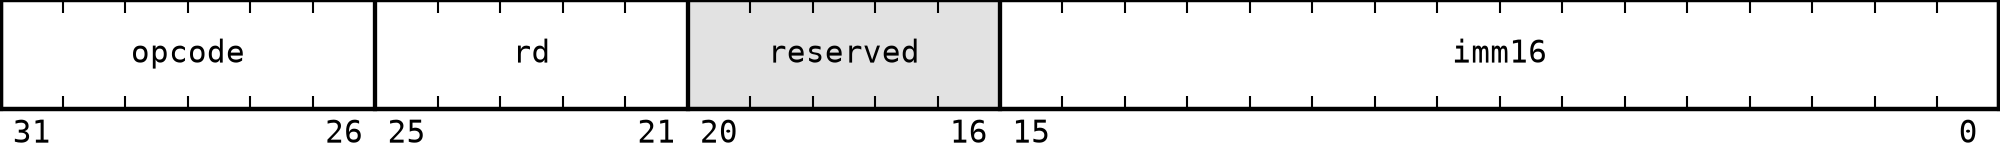
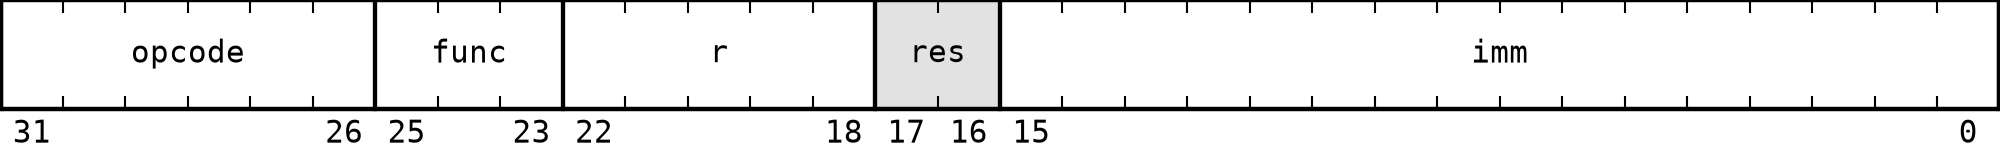
formats

diff --git a/A32/03_instruction_formats.md b/A32/03_instruction_formats.md
@@ -70,77 +70,46 @@ Used by `LI`, `LIH`, and `CMPI`.
 | Field | Bits | Description |
 | --- | --- | --- |
 | `opcode` | `31:26` | Primary opcode |
-| `rd` | `25:21` | Destination or comparison register |
-| `reserved` | `20:16` | Reserved bits |
-| `imm16` | `15:0` | Unsigned 16-bit immediate |
+| `func` | `25:23` | Secondary operation selector |
+| `r` | `22:18` | Register operand |
+| `reserved` | `17:16` | Reserved bits |
+| `imm` | `15:0` | Immediate field |
 
-For `CMPI`, `rd` is only used as the first comparison operand and not as a destination register.
+For `LI` and `LIH`, `r` is the destination register. For `CMPI`, it is a source register and no register is written.
 
 ## Register-register-immediate (RRI)
 
-Used by `SLL`, `SRL`, `SRA`, `ADDI`, and `SUBI`.
+Used by `SLL`, `SRL`, `SRA`, `ADDI`, `SUBI`, `LOAD`, and `STORE`.
 
 ![Register-register-immediate instruction format](imgs/rri.png)
 
 | Field | Bits | Description |
 | --- | --- | --- |
 | `opcode` | `31:26` | Primary opcode |
-| `rd` | `25:21` | Destination register |
-| `rs` | `20:16` | Source register |
-| `imm16` | `15:0` | Unsigned 16-bit immediate |
+| `r1` | `25:21` | First register operand |
+| `r2` | `20:16` | Second register operand |
+| `imm` | `15:0` | Immediate field |
 
-Shift instructions accept values from `0` to `31`. Their `imm16` field therefore has bits `15:5` cleared and stores the shift amount in bits `4:0`.
+| Instructions | `r1` | `r2` | `imm` |
+| --- | --- | --- | --- |
+| `ADDI`, `SUBI` | Destination | Source | Immediate value |
+| `SLL`, `SRL`, `SRA` | Destination | Source | Shift amount |
+| `LOAD` | Destination | Base address | Data offset |
+| `STORE` | Source data | Base address | Data offset |
 
-## Absolute jump
+Shift instructions accept values from `0` to `31`. Their `imm` field therefore has bits `15:5` cleared and stores the shift amount in bits `4:0`.
 
-Used by `JMP` and `CALL`.
+## Immediate (I)
 
-![Absolute-jump instruction format](imgs/abs_jumps.png)
+Used by `JMP`, `CALL`, `BRA`, `BEQ`, `BNE`, `BLT`, `BGE`, `BLTU`, and `BGEU`.
 
-| Field | Bits | Description |
-| --- | --- | --- |
-| `opcode` | `31:26` | Primary opcode |
-| `addr26` | `25:0` | Absolute instruction address |
-
-The field spans the complete `2^26`-word instruction address space.
-
-## Relative branch
-
-Used by `BRA`, `BEQ`, `BNE`, `BLT`, `BGE`, `BLTU`, and `BGEU`.
-
-![Relative-branch instruction format](imgs/rel_jumps.png)
+![Immediate instruction format](imgs/i.png)
 
 | Field | Bits | Description |
 | --- | --- | --- |
 | `opcode` | `31:26` | Primary opcode |
-| `off26` | `25:0` | Signed PC-relative instruction offset |
+| `imm` | `25:0` | Immediate field |
 
-The target is `PC + 1 + off26`, calculated using 26-bit wrapping arithmetic.
-
-## Load
-
-Used by `LOAD`.
-
-![Load instruction format](imgs/load.png)
-
-| Field | Bits | Description |
-| --- | --- | --- |
-| `opcode` | `31:26` | Primary opcode |
-| `rd` | `25:21` | Destination register |
-| `rb` | `20:16` | Base-address register |
-| `off16` | `15:0` | Signed data offset |
-
-## Store
-
-Used by `STORE`.
-
-![Store instruction format](imgs/store.png)
-
-| Field | Bits | Description |
-| --- | --- | --- |
-| `opcode` | `31:26` | Primary opcode |
-| `rs` | `25:21` | Source data register |
-| `rb` | `20:16` | Base-address register |
-| `off16` | `15:0` | Signed data offset |
+For `JMP` and `CALL`, `imm` is an unsigned absolute instruction address. For relative branches, it is a signed offset from the instruction that follows the branch.
 
 `opcode` and `func` assignments are listed in [04_instruction_encoding.md](04_instruction_encoding.md).

diff --git a/A16/03_instruction_formats.md b/A16/03_instruction_formats.md
@@ -69,76 +69,42 @@ Used by `LI`, `LIH`, `ADDI`, `SUBI`, and `CMPI`.
 | Field | Bits | Description |
 | --- | --- | --- |
 | `opcode` | `15:11` | Primary opcode |
-| `rd` | `10:8` | Destination and first operand register |
-| `imm8` | `7:0` | Unsigned 8-bit immediate |
+| `r` | `10:8` | Register operand |
+| `imm` | `7:0` | Immediate field |
 
-
-For `CMPI`, `rd` is only used as the first comparison operand and not as a destination register.
+For `LI` and `LIH`, `r` is the destination register. For `ADDI` and `SUBI`, it is both the source and destination. For `CMPI`, it is a source register and no register is written.
 
 ## Register-register-immediate (RRI)
 
-Used by `SLL`, `SRL`, and `SRA`.
+Used by `SLL`, `SRL`, `SRA`, `LOAD`, and `STORE`.
 
 ![Register-register-immediate instruction format](imgs/rri.png)
 
 | Field | Bits | Description |
 | --- | --- | --- |
 | `opcode` | `15:11` | Primary opcode |
-| `rd` | `10:8` | Destination register |
-| `rs` | `7:5` | Source register |
-| `imm5` | `4:0` | Shift amount |
+| `r1` | `10:8` | First register operand |
+| `r2` | `7:5` | Second register operand |
+| `imm` | `4:0` | Immediate field |
 
-## Absolute jump
+| Instructions | `r1` | `r2` | `imm` |
+| --- | --- | --- | --- |
+| `SLL`, `SRL`, `SRA` | Destination | Source | Shift amount |
+| `LOAD` | Destination | Base address | Data offset |
+| `STORE` | Source data | Base address | Data offset |
 
-Used by `JMP` and `CALL`.
+## Immediate (I)
 
-![Absolute jump instruction format](imgs/abs_jumps.png)
+Used by `JMP`, `CALL`, `BRA`, `BEQ`, `BNE`, `BLT`, `BGE`, `BLTU`, and `BGEU`.
 
-| Field | Bits | Description |
-| --- | --- | --- |
-| `opcode` | `15:11` | Primary opcode |
-| `addr11` | `10:0` | Absolute instruction address |
-
-The field spans the complete 2048-word instruction address space.
-
-## Relative branch
-
-Used by `BRA`, `BEQ`, `BNE`, `BLT`, `BGE`, `BLTU`, and `BGEU`.
-
-![Relative branch instruction format](imgs/rel_jumps.png)
+![Immediate instruction format](imgs/i.png)
 
 | Field | Bits | Description |
 | --- | --- | --- |
 | `opcode` | `15:11` | Primary opcode |
-| `off11` | `10:0` | PC-relative instruction offset |
+| `imm` | `10:0` | Immediate field |
 
-`BRA` always targets `PC + 1 + sext(off11)`. A conditional branch uses the same target when its condition is satisfied.
-
-## Load
-
-Used by `LOAD`.
-
-![Load instruction format](imgs/load.png)
-
-| Field | Bits | Description |
-| --- | --- | --- |
-| `opcode` | `15:11` | Primary opcode |
-| `rd` | `10:8` | Destination register |
-| `rb` | `7:5` | Base-address register |
-| `off5` | `4:0` | Data offset |
-
-## Store
-
-Used by `STORE`.
-
-![Store instruction format](imgs/store.png)
-
-| Field | Bits | Description |
-| --- | --- | --- |
-| `opcode` | `15:11` | Primary opcode |
-| `rs` | `10:8` | Source data register |
-| `rb` | `7:5` | Base-address register |
-| `off5` | `4:0` | Data offset |
+For `JMP` and `CALL`, `imm` is an unsigned absolute instruction address. For relative branches, it is a signed offset from the instruction that follows the branch.
 
 ---
 

diff --git a/A32/04_instruction_encoding.md b/A32/04_instruction_encoding.md
@@ -13,30 +13,30 @@ A32 uses a six-bit primary opcode and a three-bit function field where an opcode
 | `OR` | `000010` | `001` | RRR |
 | `XOR` | `000010` | `010` | RRR |
 | `NOT` | `000010` | `011` | RR |
-| `LI` | `000011` | - | RI |
-| `LIH` | `000100` | - | RI |
+| `LI` | `000011` | `000` | RI |
+| `LIH` | `000100` | `000` | RI |
 | `SLL` | `000101` | - | RRI |
 | `SRL` | `000110` | - | RRI |
 | `SRA` | `000111` | - | RRI |
-| `JMP` | `001000` | - | Absolute jump |
-| `BRA` | `001001` | - | Relative branch |
-| `BEQ` | `001010` | - | Relative branch |
-| `BNE` | `001011` | - | Relative branch |
-| `BLT` | `001100` | - | Relative branch |
-| `BGE` | `001101` | - | Relative branch |
-| `BLTU` | `001110` | - | Relative branch |
-| `BGEU` | `001111` | - | Relative branch |
-| `CALL` | `010000` | - | Absolute jump |
+| `JMP` | `001000` | - | I |
+| `BRA` | `001001` | - | I |
+| `BEQ` | `001010` | - | I |
+| `BNE` | `001011` | - | I |
+| `BLT` | `001100` | - | I |
+| `BGE` | `001101` | - | I |
+| `BLTU` | `001110` | - | I |
+| `BGEU` | `001111` | - | I |
+| `CALL` | `010000` | - | I |
 | `RET` | `010001` | - | No operand |
 | `JMPR` | `010010` | `000` | R |
 | `CALLR` | `010010` | `001` | R |
 | `PUSH` | `010010` | `010` | R |
 | `POP` | `010010` | `011` | R |
-| `LOAD` | `010011` | - | Load |
-| `STORE` | `010100` | - | Store |
+| `LOAD` | `010011` | - | RRI |
+| `STORE` | `010100` | - | RRI |
 | `ADDI` | `010101` | - | RRI |
 | `SUBI` | `010110` | - | RRI |
-| `CMPI` | `010111` | - | RI |
+| `CMPI` | `010111` | `000` | RI |
 | Reserved | `011xxx` | - | - |
 | Reserved | `1xxxxx` | - | - |
 

diff --git a/A16/04_instruction_encoding.md b/A16/04_instruction_encoding.md
@@ -16,22 +16,22 @@
 | `SLL` | `00101` | - | RRI |
 | `SRL` | `00110` | - | RRI |
 | `SRA` | `00111` | - | RRI |
-| `JMP` | `01000` | - | Absolute jump |
-| `BRA` | `01001` | - | Relative branch |
-| `BEQ` | `01010` | - | Relative branch |
-| `BNE` | `01011` | - | Relative branch |
-| `BLT` | `01100` | - | Relative branch |
-| `BGE` | `01101` | - | Relative branch |
-| `BLTU` | `01110` | - | Relative branch |
-| `BGEU` | `01111` | - | Relative branch |
-| `CALL` | `10000` | - | Absolute jump |
+| `JMP` | `01000` | - | I |
+| `BRA` | `01001` | - | I |
+| `BEQ` | `01010` | - | I |
+| `BNE` | `01011` | - | I |
+| `BLT` | `01100` | - | I |
+| `BGE` | `01101` | - | I |
+| `BLTU` | `01110` | - | I |
+| `BGEU` | `01111` | - | I |
+| `CALL` | `10000` | - | I |
 | `RET` | `10001` | - | No operand |
 | `JMPR` | `10010` | `00` | R |
 | `CALLR` | `10010` | `01` | R |
 | `PUSH` | `10010` | `10` | R |
 | `POP` | `10010` | `11` | R |
-| `LOAD` | `10011` | - | Load |
-| `STORE` | `10100` | - | Store |
+| `LOAD` | `10011` | - | RRI |
+| `STORE` | `10100` | - | RRI |
 | `ADDI` | `10101` | - | RI |
 | `SUBI` | `10110` | - | RI |
 | `CMPI` | `10111` | - | RI |

diff --git a/A16/01_registers.md b/A16/01_registers.md
@@ -18,7 +18,7 @@ Every encoded register field is three bits wide.
 `PC` is an 11-bit register containing the address of the current instruction.
 
 > [!NOTE]
-> `PC` is 11 bits wide because instruction memory contains `2^11 = 2048` words. This allows an [absolute jump](03_instruction_formats.md#absolute-jump) to reach every instruction-memory address using the 11-bit field encoded in the instruction.
+> `PC` is 11 bits wide because instruction memory contains `2^11 = 2048` words. This allows an absolute jump encoded with the [I format](03_instruction_formats.md#immediate-i) to reach every instruction-memory address using the 11-bit field encoded in the instruction.
 
 Sequential execution advances `PC` by one. `PC` is not directly addressable by the general register fields.
 

diff --git a/A32/01_registers.md b/A32/01_registers.md
@@ -18,7 +18,7 @@ Every encoded register field is five bits wide.
 `PC` is a 26-bit register containing the address of the current instruction.
 
 > [!NOTE]
-> `PC` is 26 bits wide because instruction memory contains `2^26` words. This allows an [absolute jump](03_instruction_formats.md#absolute-jump) to reach every instruction-memory address using the 26-bit field encoded in the instruction.
+> `PC` is 26 bits wide because instruction memory contains `2^26` words. This allows an absolute jump encoded with the [I format](03_instruction_formats.md#immediate-i) to reach every instruction-memory address using the 26-bit field encoded in the instruction.
 
 Sequential execution advances `PC` by one. `PC` is not directly addressable by the general register fields.
 
